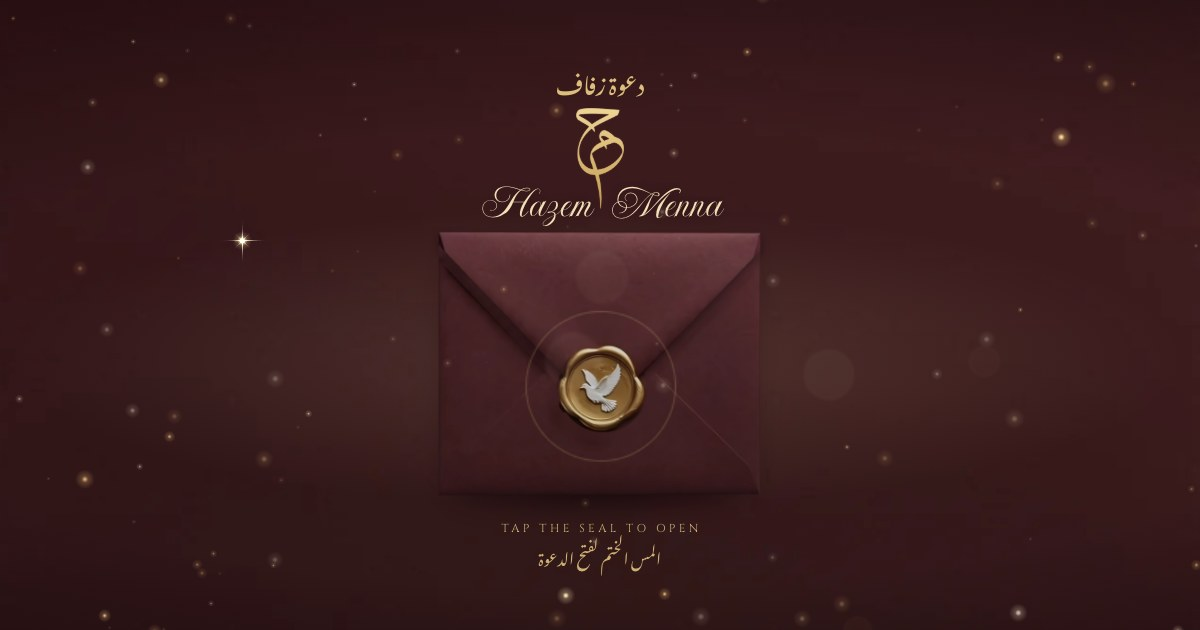
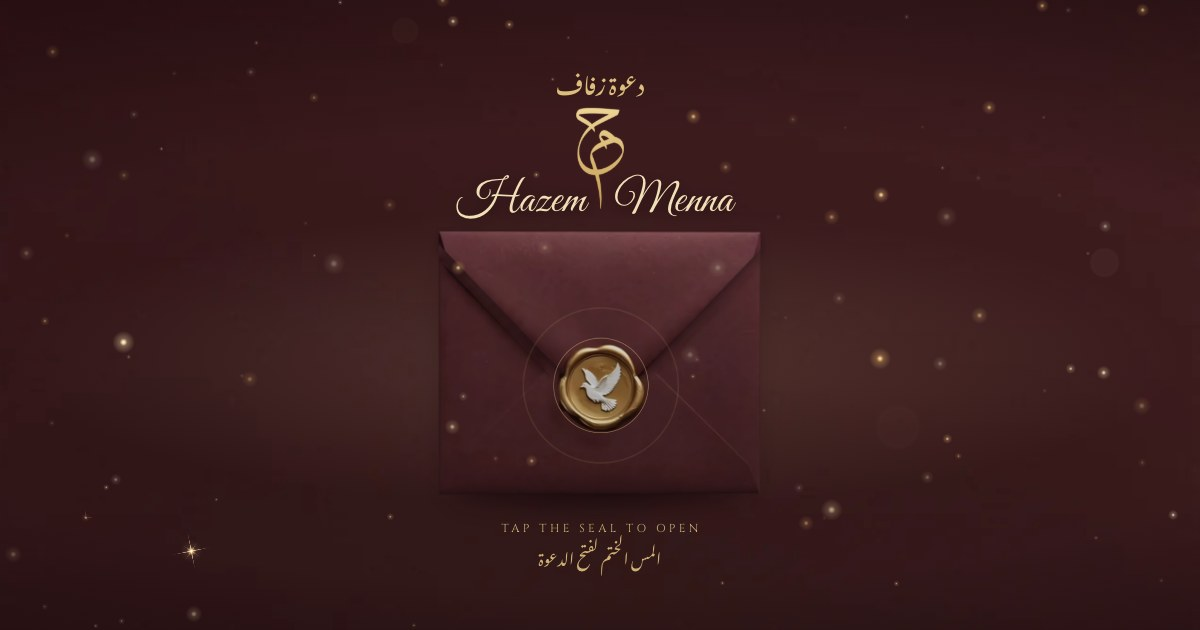
Refresh link preview with the new name font

diff --git a/index.html b/index.html
@@ -9,7 +9,7 @@
 <meta property="og:description" content="Friday 20 November 2026 · 7:00 PM · El Masa Wedding Hall, Banha">
 <meta property="og:type" content="website">
 <meta property="og:url" content="https://wedding-invitation-hm.github.io/">
-<meta property="og:image" content="https://wedding-invitation-hm.github.io/og.jpg?v=3">
+<meta property="og:image" content="https://wedding-invitation-hm.github.io/og.jpg?v=4">
 <meta property="og:image:width" content="1200">
 <meta property="og:image:height" content="630">
 <meta name="twitter:card" content="summary_large_image">
